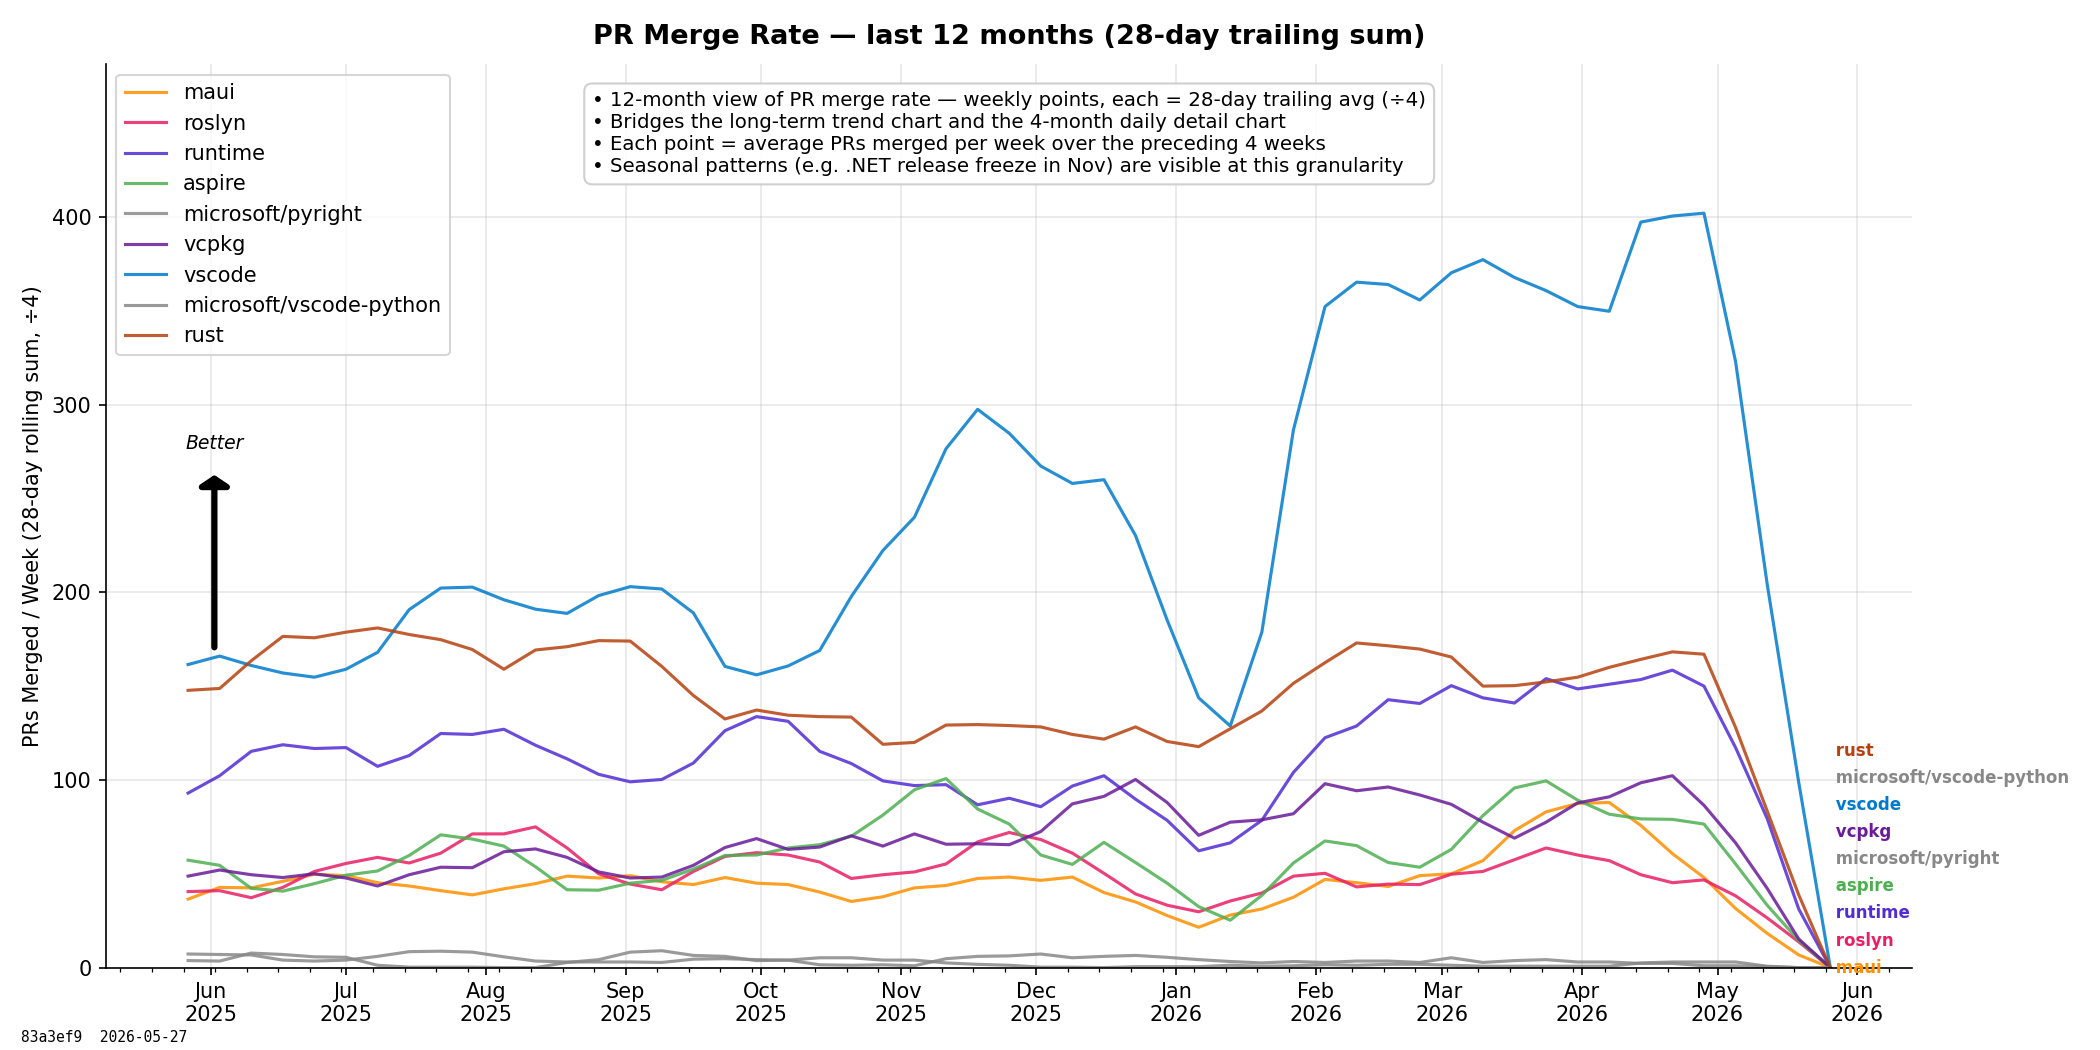
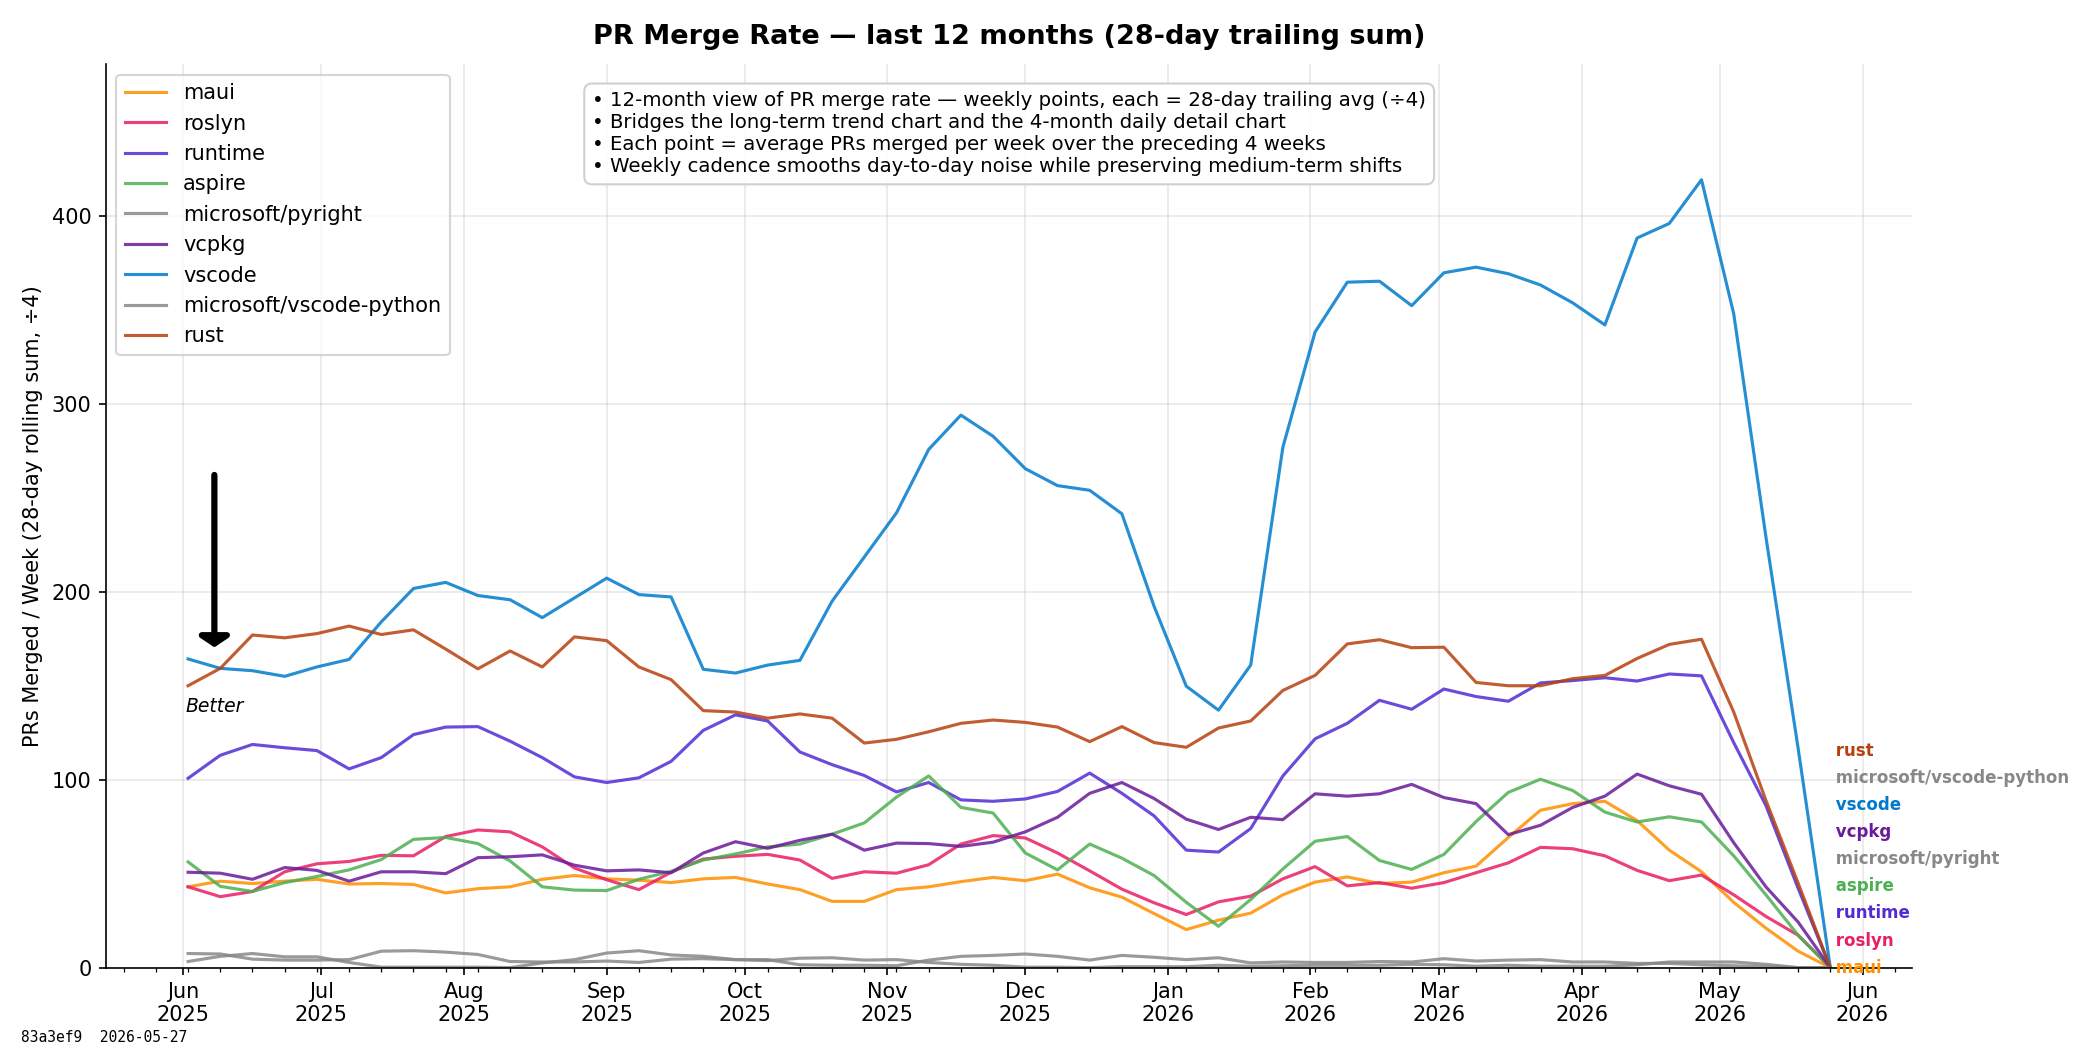
Address merge-rate 12m review feedback

diff --git a/analyze.py b/analyze.py
@@ -953,11 +953,13 @@ def chart_pr_merge_rate_12m(all_items, output_dir):
                 daily[md] += 1
         if not daily:
             continue
-        # Build weekly series and compute 28-day trailing sum at each Sunday in [cutoff, last_day]
+        # Build weekly series on Mondays and compute 28-day trailing sum at each point
         # Divide by 4 to express as PRs/week average
         weeks = []
         rolling = []
-        d = cutoff
+        d = week_start(cutoff)
+        if d < cutoff:
+            d += timedelta(days=7)
         while d <= last_day:
             s = sum(daily.get(d - timedelta(days=k), 0) for k in range(28)) / 4.0
             weeks.append(d)
@@ -983,12 +985,14 @@ def chart_pr_merge_rate_12m(all_items, output_dir):
     ax.xaxis.set_minor_formatter(mdates.DateFormatter(""))
     ax.legend(loc="upper left", fontsize=10)
     label_line_ends(ax, line_ends)
-    add_direction_arrow(ax, "up")
+    total_start = sum(series[0] for series in visible_data)
+    total_end = sum(series[-1] for series in visible_data)
+    add_direction_arrow(ax, "up" if total_end >= total_start else "down")
     add_insight_box(ax, [
         "12-month view of PR merge rate — weekly points, each = 28-day trailing avg (÷4)",
         "Bridges the long-term trend chart and the 4-month daily detail chart",
         "Each point = average PRs merged per week over the preceding 4 weeks",
-        "Seasonal patterns (e.g. .NET release freeze in Nov) are visible at this granularity",
+        "Weekly cadence smooths day-to-day noise while preserving medium-term shifts",
     ])
     _pad_date_xlim(fig)
     fig.tight_layout()
